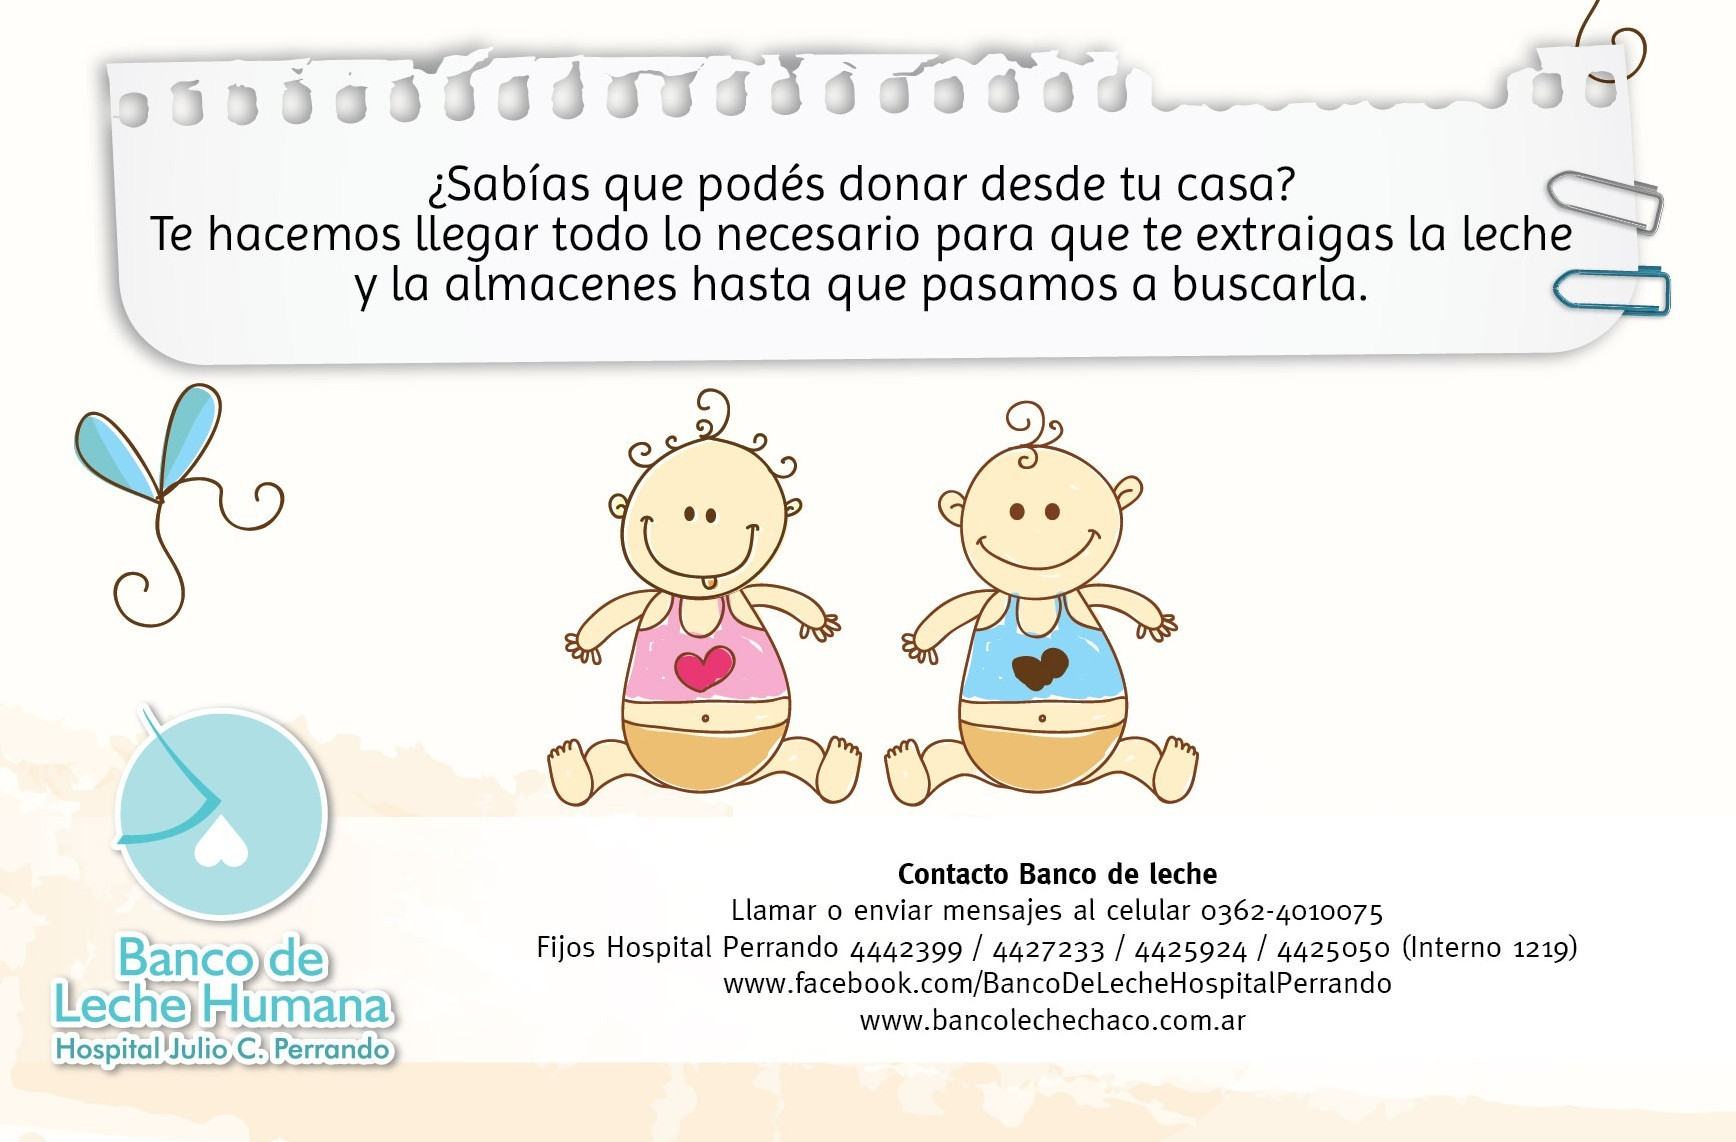
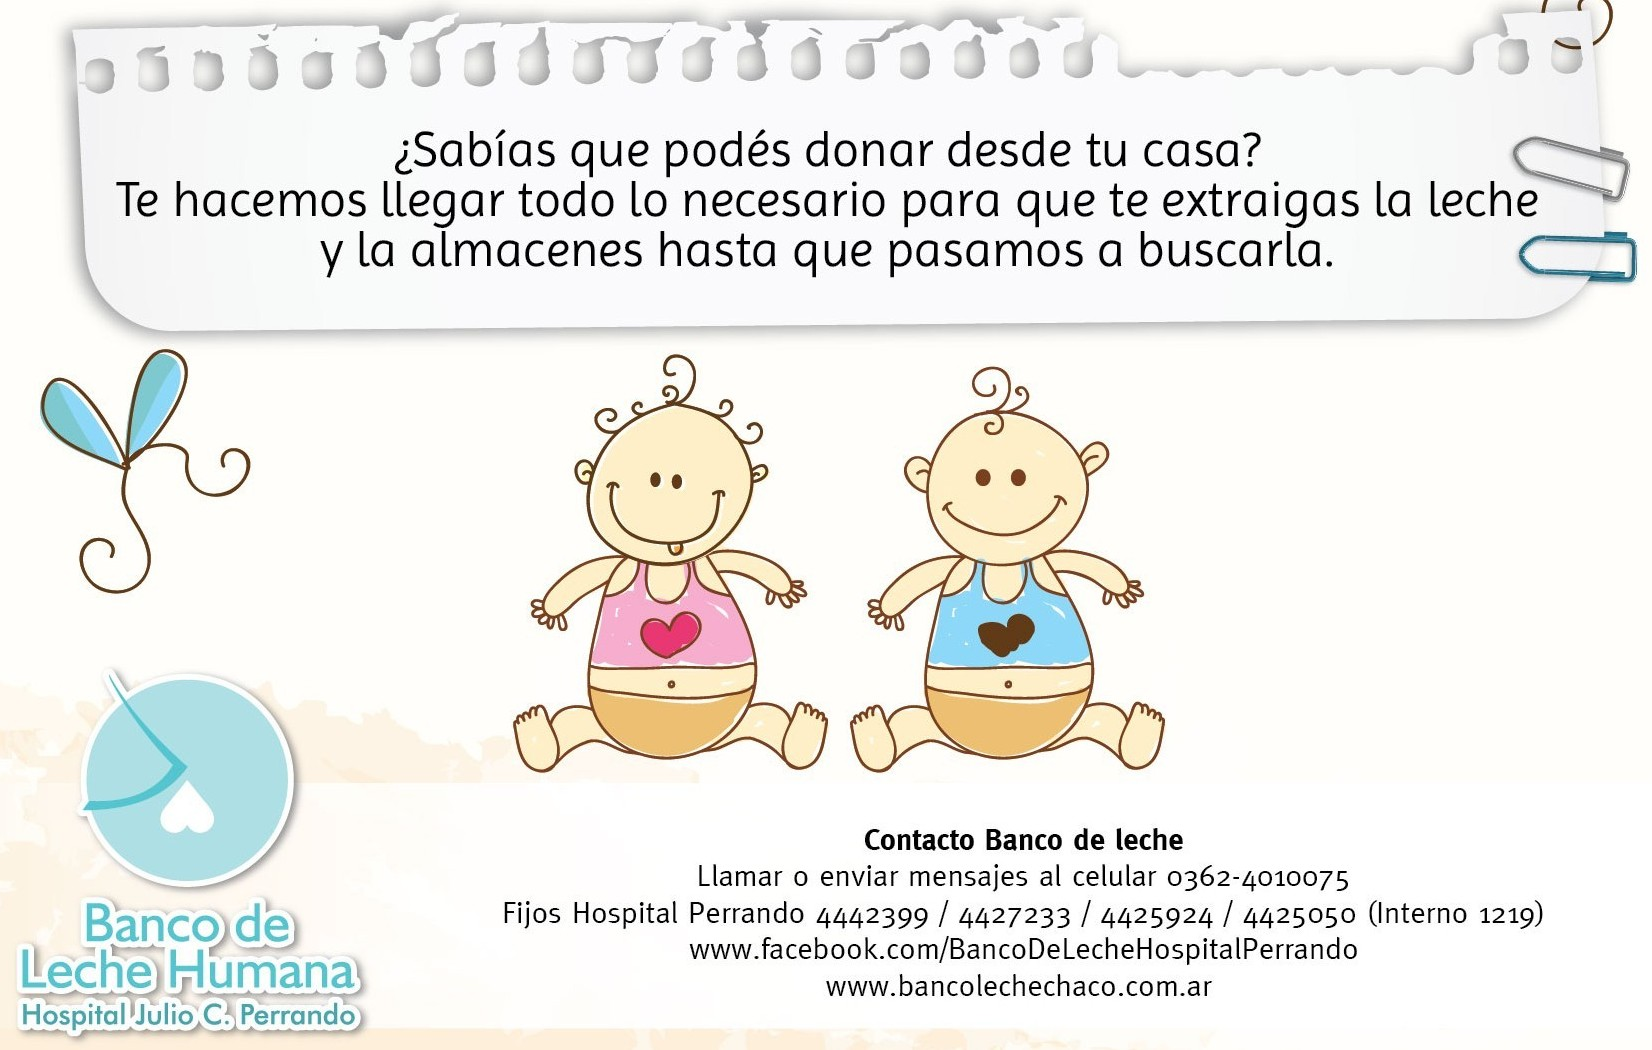
la pagina principal, la imagen se acorto un poco

Changed region(s): [[0.0, 0.0, 1.0, 1.0]]

diff --git a/application/views/pages/home.php b/application/views/pages/home.php
@@ -1,7 +1,11 @@
 <aside class="right-side">
-<div class="container"> 
+<div class="container-fluid"> 
+	<div class="container-fluid">
+		<div class="container-fluid">
+			<div class="container-fluid">
+				<div class="container-fluid">
 	<img src="<?php echo base_url();?>assets/internals/img/banco.jpg" 
-	class="img-responsive" height="auto" width="auto" align="center">
-</div> 
+	class="img-responsive" height="auto" width="auto" align="auto">
+</div> </div></div></div></div>
 
 </aside>
